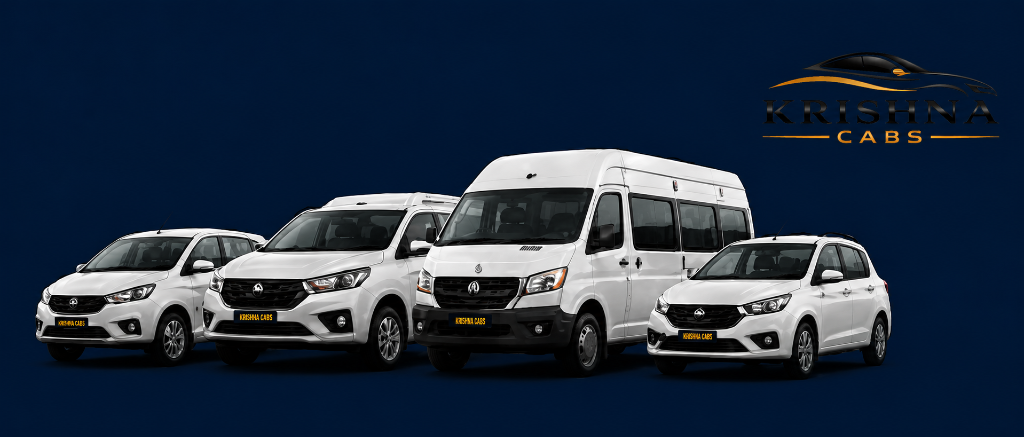
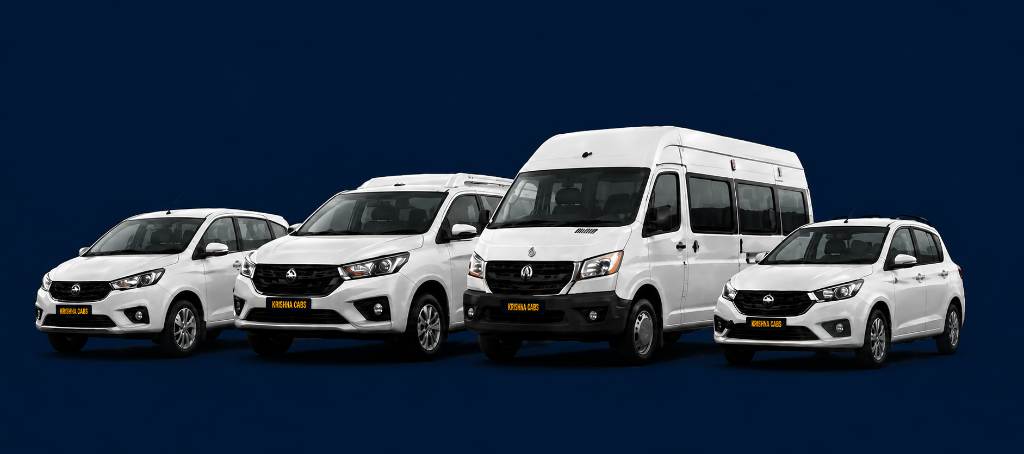
image chages

diff --git a/src/components/sections/RoutesSection.jsx b/src/components/sections/RoutesSection.jsx
@@ -1,0 +1,75 @@
+import Reveal from '../ui/Reveal'
+
+const POPULAR_ROUTES = [
+  {
+    title: 'Junagadh to Dwarka',
+    img: 'https://www.indiantempletour.com/wp-content/uploads/2018/12/Dwarka-Tour-Package.webp',
+  },
+  {
+    title: 'Junagadh to Somnath',
+    img: 'https://upload.wikimedia.org/wikipedia/commons/thumb/a/ac/Somanath_Temple.jpg/500px-Somanath_Temple.jpg',
+  },
+  {
+    title: 'Junagadh to Sasan (Gir)',
+    img: 'https://www.girnationalpark.in/uploads/about-sasan-gir.jpg',
+  },
+  {
+    title: 'Junagadh to Diu',
+    img: 'https://media.istockphoto.com/id/1268472719/photo/india.jpg?s=612x612&w=0&k=20&c=DdP4gE2z7R8u1bjTarTnEeTEx4ulRCXTQQ-W-FLxrx8=',
+  },
+  {
+    title: 'Junagadh to Ahmedabad',
+    img: 'https://www.kiomoi.com/_next/image?url=https%3A%2F%2Fres.cloudinary.com%2Fkmadmin%2Fimage%2Fupload%2Fc_scale%2Cw_1248%2Ff_auto%2Fv1560260650%2Fkiomoi%2FAhmedabad%2Fkankaria%20Lake%20%20(1).webp&w=3840&q=75',
+  },
+  {
+    title: 'Junagadh to Rajkot',
+    img: 'https://www.trawell.in/admin/images/upload/670516333Rajkot_Main.jpg',
+  },
+]
+
+const RoutesSection = () => {
+  return (
+    <section id="routes" className="bg-white py-16 lg:py-20 scroll-mt-20 lg:scroll-mt-24">
+      <div className="container-site text-center">
+        <Reveal>
+          <span className="text-xs font-bold uppercase tracking-[0.2em] text-gold">Intercity Travel</span>
+          <h2 className="mt-2 text-3xl font-extrabold text-navy sm:text-4xl">
+            Popular Routes
+          </h2>
+          <span className="mx-auto mt-3 block h-[3px] w-12 rounded-full bg-gold" />
+          <p className="mx-auto mt-4 max-w-2xl text-slate-500">
+            Enjoy reliable and premium travel between Junagadh and these top cities across Gujarat.
+          </p>
+        </Reveal>
+
+        <div className="mt-12 grid grid-cols-1 gap-6 sm:grid-cols-2 lg:grid-cols-3">
+          {POPULAR_ROUTES.map((route, i) => (
+            <Reveal key={route.title} delay={i * 0.05}>
+              <div className="group relative overflow-hidden rounded-2xl bg-white shadow-soft transition-all duration-300 hover:-translate-y-1.5 hover:shadow-card aspect-[4/3] sm:aspect-[16/10]">
+                {/* Image background with zoom effect */}
+                <img
+                  src={route.img}
+                  alt={route.title}
+                  loading="lazy"
+                  className="h-full w-full object-cover transition-transform duration-500 group-hover:scale-105"
+                />
+
+                {/* Gradient overlay */}
+                <div className="absolute inset-0 bg-gradient-to-t from-black/85 via-black/35 to-black/5 transition-opacity duration-300 group-hover:from-black/90 group-hover:via-black/45" />
+
+                {/* Label centered at bottom */}
+                <div className="absolute inset-x-0 bottom-0 p-6 text-center">
+                  <h3 className="text-lg font-bold tracking-wide text-white md:text-xl drop-shadow-md">
+                    {route.title}
+                  </h3>
+                </div>
+              </div>
+            </Reveal>
+          ))}
+        </div>
+      </div>
+    </section>
+  )
+}
+
+export default RoutesSection

diff --git a/src/components/sections/Hero.jsx b/src/components/sections/Hero.jsx
@@ -5,9 +5,6 @@ import Button from '../ui/Button'
 import BookingForm from './BookingForm'
 import { CONTACT } from '../../data/siteData'
 
-// Scenic sunset highway backdrop (placeholder for the supplied hero artwork)
-const HERO_BG =
-  'https://hblimg.mmtcdn.com/content/hubble/img/destimg/mmt/destination/m_Dwarka_tv_destination_img_1_l_766_1147.jpg'
 const CAR_IMG =
   'https://acko-cms.ackoassets.com/1_10650055cf.jpg'
 
@@ -16,7 +13,18 @@ const Hero = () => {
     <section id="home" className="relative overflow-hidden bg-navy-950">
       {/* Background image + dark gradient overlay */}
       <div className="absolute inset-0">
-        <img src={HERO_BG} alt="" className="h-full w-full object-cover" />
+        {/* Mobile Background (Portrait) */}
+        <img
+          src="/hero-bg-mobile.jpg"
+          alt=""
+          className="h-full w-full object-cover sm:hidden"
+        />
+        {/* Desktop/Tablet Background (Landscape) */}
+        <img
+          src="/hero-bg-desktop.jpg"
+          alt=""
+          className="hidden h-full w-full object-cover sm:block"
+        />
         <div className="absolute inset-0 bg-gradient-to-r from-navy-950/95 via-navy-900/70 to-navy-950/60" />
       </div>
 

diff --git a/src/components/ui/FloatingActions.jsx b/src/components/ui/FloatingActions.jsx
@@ -1,14 +1,13 @@
-import { Phone } from 'lucide-react'
 import { FaWhatsapp } from 'react-icons/fa'
 import { CONTACT } from '../../data/siteData'
 
 /**
- * Premium floating WhatsApp and Phone actions pinned to the bottom right corner.
+ * Premium floating WhatsApp action pinned to the bottom right corner.
  * Features subtle entry animations, hover effects, and pulsing ring indicators.
  */
 const FloatingActions = () => {
   return (
-    <div className="fixed bottom-6 right-6 z-40 flex flex-col gap-3.5">
+    <div className="fixed bottom-6 right-6 z-40">
       {/* WhatsApp Button */}
       <a
         href={CONTACT.whatsappHref}
@@ -19,16 +18,6 @@ const FloatingActions = () => {
       >
         <span className="absolute inset-0 -z-10 inline-flex h-full w-full animate-ping rounded-full bg-[#25D366]/30 opacity-75 group-hover:hidden" style={{ animationDuration: '2s' }} />
         <FaWhatsapp className="h-7 w-7 transition-transform group-hover:rotate-12" />
-      </a>
-
-      {/* Call Button */}
-      <a
-        href={CONTACT.phoneHref}
-        aria-label="Call Us"
-        className="group relative flex h-14 w-14 items-center justify-center rounded-full bg-gold text-navy shadow-lg transition-all duration-300 hover:scale-110 hover:shadow-xl hover:shadow-gold/20 active:scale-95"
-      >
-        <span className="absolute inset-0 -z-10 inline-flex h-full w-full animate-ping rounded-full bg-gold/30 opacity-75 group-hover:hidden" style={{ animationDuration: '2s', animationDelay: '1s' }} />
-        <Phone className="h-6 w-6 stroke-[2.5] transition-transform group-hover:rotate-12" />
       </a>
     </div>
   )

diff --git a/src/components/sections/AboutSection.jsx b/src/components/sections/AboutSection.jsx
@@ -1,5 +1,6 @@
 import { Check } from 'lucide-react'
 import Reveal from '../ui/Reveal'
+import { CONTACT } from '../../data/siteData'
 
 /**
  * Premium "About Us" section detailing Krishna Cabs' values,
@@ -14,7 +15,7 @@ const AboutSection = () => {
   ]
 
   return (
-    <section id="about" className="bg-cream py-16 lg:py-20 scroll-mt-[72px]">
+    <section id="about" className="bg-cream py-16 lg:py-20 scroll-mt-20 lg:scroll-mt-24">
       <div className="container-site grid grid-cols-1 gap-12 lg:grid-cols-12 lg:items-center">
         {/* Left: Text Content */}
         <div className="lg:col-span-7">
@@ -57,13 +58,13 @@ const AboutSection = () => {
           <Reveal delay={0.1}>
             <div className="relative overflow-hidden rounded-2xl shadow-card ring-1 ring-black/5">
               <img
-                src="https://www.asiaticlionlodge.com/static/images/jungle-safari-pic.jpg"
+                src="https://hblimg.mmtcdn.com/content/hubble/img/destimg/mmt/destination/m_Dwarka_tv_destination_img_1_l_766_1147.jpg"
                 alt="Comfortable travel with Krishna Cabs"
                 className="h-[350px] w-full object-cover transition-transform duration-500 hover:scale-105"
               />
               <div className="absolute inset-0 bg-gradient-to-t from-navy/60 via-transparent to-transparent" />
               <div className="absolute bottom-6 left-6 right-6 text-white text-left">
-                <p className="text-2xl font-black tracking-wide text-gold">9090 10 9292</p>
+                <p className="text-2xl font-black tracking-wide text-gold">{CONTACT.phoneLabel}</p>
                 <p className="text-xs font-semibold uppercase tracking-wider text-slate-200 mt-1">
                   Call us anytime for booking confirmation
                 </p>

diff --git a/src/components/sections/FaresSection.jsx b/src/components/sections/FaresSection.jsx
@@ -14,7 +14,7 @@ const Panel = ({ children, className = '', ...props }) => (
 
 const FaresSection = () => {
   return (
-    <section id="tariff" className="py-14 lg:py-16 scroll-mt-[72px]">
+    <section id="tariff" className="py-14 lg:py-16 scroll-mt-20 lg:scroll-mt-24">
       <div className="container-site grid grid-cols-1 gap-6 md:grid-cols-2 xl:grid-cols-4">
         {/* One Way Fares */}
         <Reveal>
@@ -46,7 +46,7 @@ const FaresSection = () => {
 
         {/* Our Fleet & Per KM Rate */}
         <Reveal delay={0.1}>
-          <Panel id="fleet" className="h-full scroll-mt-[90px]">
+          <Panel id="fleet" className="h-full scroll-mt-[98px] lg:scroll-mt-[114px]">
             <SectionHeading className="mb-4">Our Fleet &amp; Per KM Rate</SectionHeading>
             <div>
               {FLEET.map((car) => (

diff --git a/src/data/siteData.js b/src/data/siteData.js
@@ -4,7 +4,7 @@
 // ---------------------------------------------------------------------------
 
 export const CONTACT = {
-  phoneLabel: '9090 10 9292',
+  phoneLabel: '[phone redacted]',
   phoneHref: 'tel:[phone redacted]',
   whatsappHref: 'https://wa.me/919090109292',
   facebookHref: 'https://www.facebook.com/share/1DqTN1sgtN/?mibextid=wwXIfr',
@@ -79,7 +79,7 @@ export const FOOTER_LINKS = {
       { label: 'About Us', to: '/#about' },
       { label: 'Our Fleet', to: '/#fleet' },
       { label: 'Tariff', to: '/#tariff' },
-      { label: 'Routes', to: '/#tariff' },
+      { label: 'Routes', to: '/#routes' },
       { label: 'Services', to: '/#services' },
       { label: 'Contact Us', to: '/#contact' },
     ],

diff --git a/src/components/layout/Navbar.jsx b/src/components/layout/Navbar.jsx
@@ -21,7 +21,7 @@ const Navbar = () => {
 
   return (
     <header className="sticky top-0 z-50 bg-white shadow-[0_1px_0_0_rgba(0,0,0,0.06)]">
-      <nav className="container-site flex h-[72px] items-center justify-between">
+      <nav className="container-site flex h-20 lg:h-24 items-center justify-between">
         {/* Mobile hamburger */}
         <button
           type="button"

diff --git a/src/components/sections/ContactSection.jsx b/src/components/sections/ContactSection.jsx
@@ -31,7 +31,7 @@ const ContactSection = () => {
   ]
 
   return (
-    <section id="contact" className="bg-cream py-16 lg:py-20 scroll-mt-[72px]">
+    <section id="contact" className="bg-cream py-16 lg:py-20 scroll-mt-20 lg:scroll-mt-24">
       <div className="container-site grid grid-cols-1 gap-12 lg:grid-cols-12">
         {/* Left Side: Contact details */}
         <div className="lg:col-span-5 text-left">

diff --git a/src/components/sections/ServicesSection.jsx b/src/components/sections/ServicesSection.jsx
@@ -29,7 +29,7 @@ const ServicesSection = () => {
   ]
 
   return (
-    <section id="services" className="bg-white py-16 lg:py-20 scroll-mt-[72px]">
+    <section id="services" className="bg-white py-16 lg:py-20 scroll-mt-20 lg:scroll-mt-24">
       <div className="container-site text-center">
         <Reveal>
           <span className="text-xs font-bold uppercase tracking-[0.2em] text-gold">Our Services</span>

diff --git a/src/components/ui/Logo.jsx b/src/components/ui/Logo.jsx
@@ -17,7 +17,7 @@ const Logo = ({ variant = 'dark', className = '' }) => {
       <div
         className={`flex items-center justify-center overflow-hidden rounded-lg transition-transform hover:scale-[1.02] ${
           isDark 
-            ? 'h-[60px] py-0.5' 
+            ? 'h-[68px] lg:h-[84px] py-0.5' 
             : 'bg-white px-4 py-2 h-20 shadow-soft'
         }`}
       >

diff --git a/src/pages/Home.jsx b/src/pages/Home.jsx
@@ -3,6 +3,7 @@ import FeaturesBar from '../components/sections/FeaturesBar'
 import AboutSection from '../components/sections/AboutSection'
 import FaresSection from '../components/sections/FaresSection'
 import ServicesSection from '../components/sections/ServicesSection'
+import RoutesSection from '../components/sections/RoutesSection'
 import ContactSection from '../components/sections/ContactSection'
 
 const Home = () => {
@@ -13,6 +14,7 @@ const Home = () => {
       <AboutSection />
       <FaresSection />
       <ServicesSection />
+      <RoutesSection />
       <ContactSection />
     </>
   )